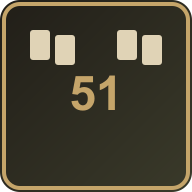
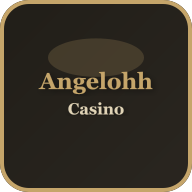
Generar nuevos iconos de Angelohh Casino para PWA con texto y diseño actualizado

Changed region(s): [[0.1562, 0.1562, 0.8438, 0.625], [0.0, 0.0, 1.0, 1.0]]

diff --git a/public/generate-casino-icons.js b/public/generate-casino-icons.js
@@ -1,0 +1,99 @@
+const fs = require('fs');
+const path = require('path');
+
+// Check if sharp is available, if not install it: npm install sharp
+let sharp;
+try {
+    sharp = require('sharp');
+} catch (e) {
+    console.error('❌ Error: sharp no está instalado. Ejecuta: npm install sharp');
+    process.exit(1);
+}
+
+async function generateIcon(size, outputPath) {
+    const padding = size * 0.15; // 15% padding
+    const textArea = size - (padding * 2);
+    
+    // SVG con el texto "Angelohh Casino"
+    const fontSize = Math.floor(size * 0.12); // Ajuste del tamaño de fuente
+    const lineHeight = fontSize * 1.2;
+    
+    const svg = `
+<svg width="${size}" height="${size}" xmlns="http://www.w3.org/2000/svg">
+  <defs>
+    <linearGradient id="bgGradient" x1="0%" y1="0%" x2="100%" y2="100%">
+      <stop offset="0%" style="stop-color:#211e18;stop-opacity:1" />
+      <stop offset="100%" style="stop-color:#2a2620;stop-opacity:1" />
+    </linearGradient>
+    <filter id="shadow">
+      <feDropShadow dx="2" dy="2" stdDeviation="3" flood-opacity="0.5"/>
+    </filter>
+  </defs>
+  
+  <!-- Fondo con gradiente -->
+  <rect width="${size}" height="${size}" rx="${size * 0.15}" fill="url(#bgGradient)"/>
+  
+  <!-- Borde dorado -->
+  <rect x="2" y="2" width="${size - 4}" height="${size - 4}" rx="${size * 0.14}" 
+        fill="none" stroke="#c5a56a" stroke-width="4"/>
+  
+  <!-- Texto principal -->
+  <text x="${size / 2}" y="${size / 2 - fontSize * 0.3}" 
+        font-family="Georgia, serif" 
+        font-size="${fontSize}" 
+        font-weight="bold" 
+        fill="#c5a56a" 
+        text-anchor="middle" 
+        filter="url(#shadow)">
+    Angelohh
+  </text>
+  
+  <!-- Texto secundario -->
+  <text x="${size / 2}" y="${size / 2 + fontSize * 0.8}" 
+        font-family="Georgia, serif" 
+        font-size="${fontSize * 0.7}" 
+        font-weight="bold" 
+        fill="#e0d3b6" 
+        text-anchor="middle" 
+        filter="url(#shadow)">
+    Casino
+  </text>
+  
+  <!-- Efecto de brillo -->
+  <ellipse cx="${size / 2}" cy="${size * 0.3}" rx="${size * 0.25}" ry="${size * 0.1}" 
+           fill="#c5a56a" opacity="0.2"/>
+</svg>`;
+
+    try {
+        const svgBuffer = Buffer.from(svg);
+        await sharp(svgBuffer)
+            .resize(size, size)
+            .png()
+            .toFile(outputPath);
+        console.log(`✅ ${outputPath} generado exitosamente (${size}x${size})`);
+    } catch (error) {
+        console.error(`❌ Error generando ${outputPath}:`, error.message);
+    }
+}
+
+async function generateAllIcons() {
+    console.log('🎰 Generando iconos de Angelohh Casino...\n');
+    
+    const outputDir = path.join(__dirname);
+    const iconSizes = [
+        { size: 144, file: 'icon-144.png' },
+        { size: 192, file: 'icon-192.png' },
+        { size: 512, file: 'icon-512.png' }
+    ];
+    
+    for (const icon of iconSizes) {
+        const outputPath = path.join(outputDir, icon.file);
+        await generateIcon(icon.size, outputPath);
+    }
+    
+    console.log('\n🎉 Todos los iconos de Angelohh Casino han sido generados');
+    console.log('📱 Los iconos están listos para la PWA');
+}
+
+generateAllIcons().catch(console.error);
+
